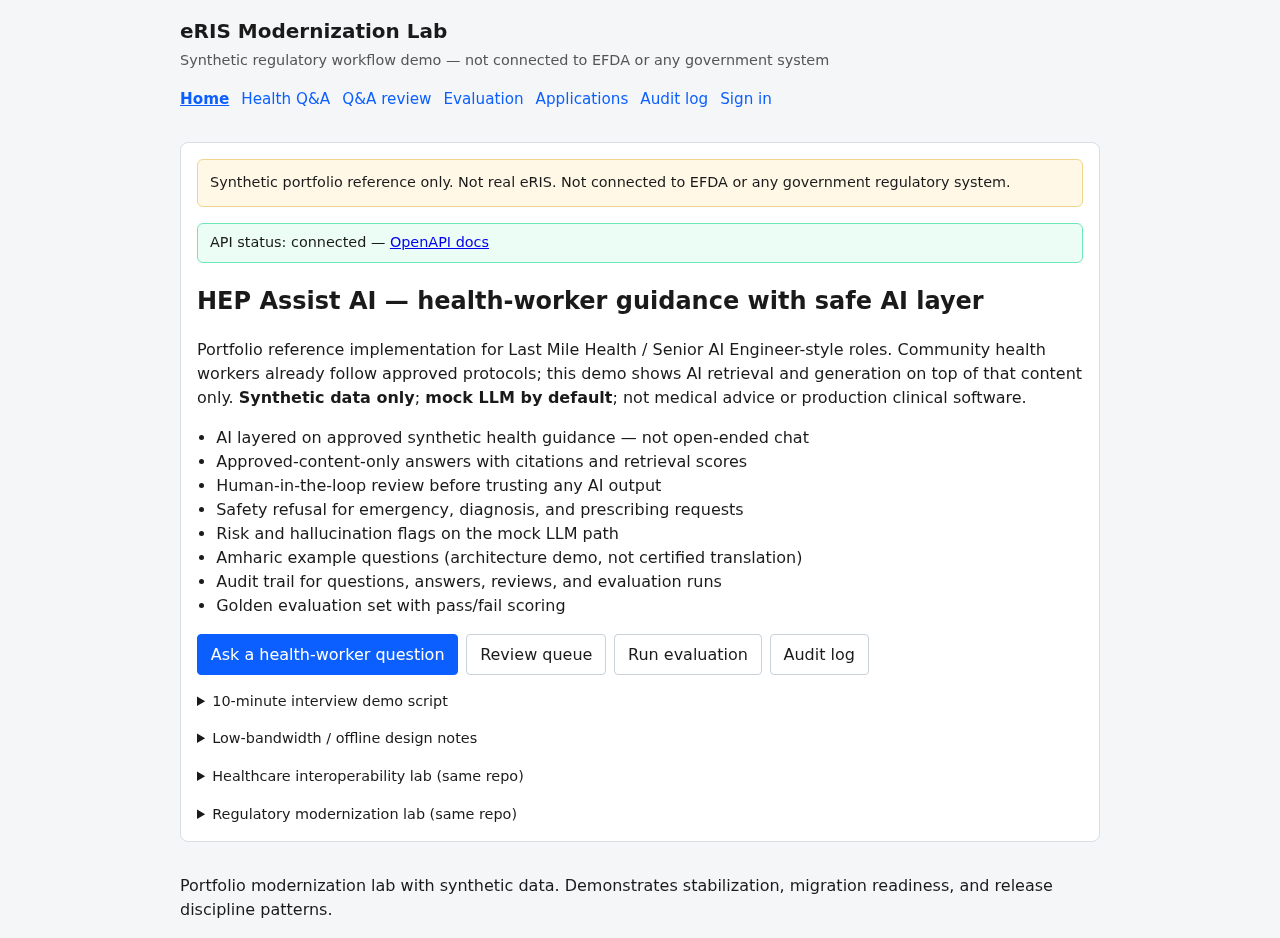
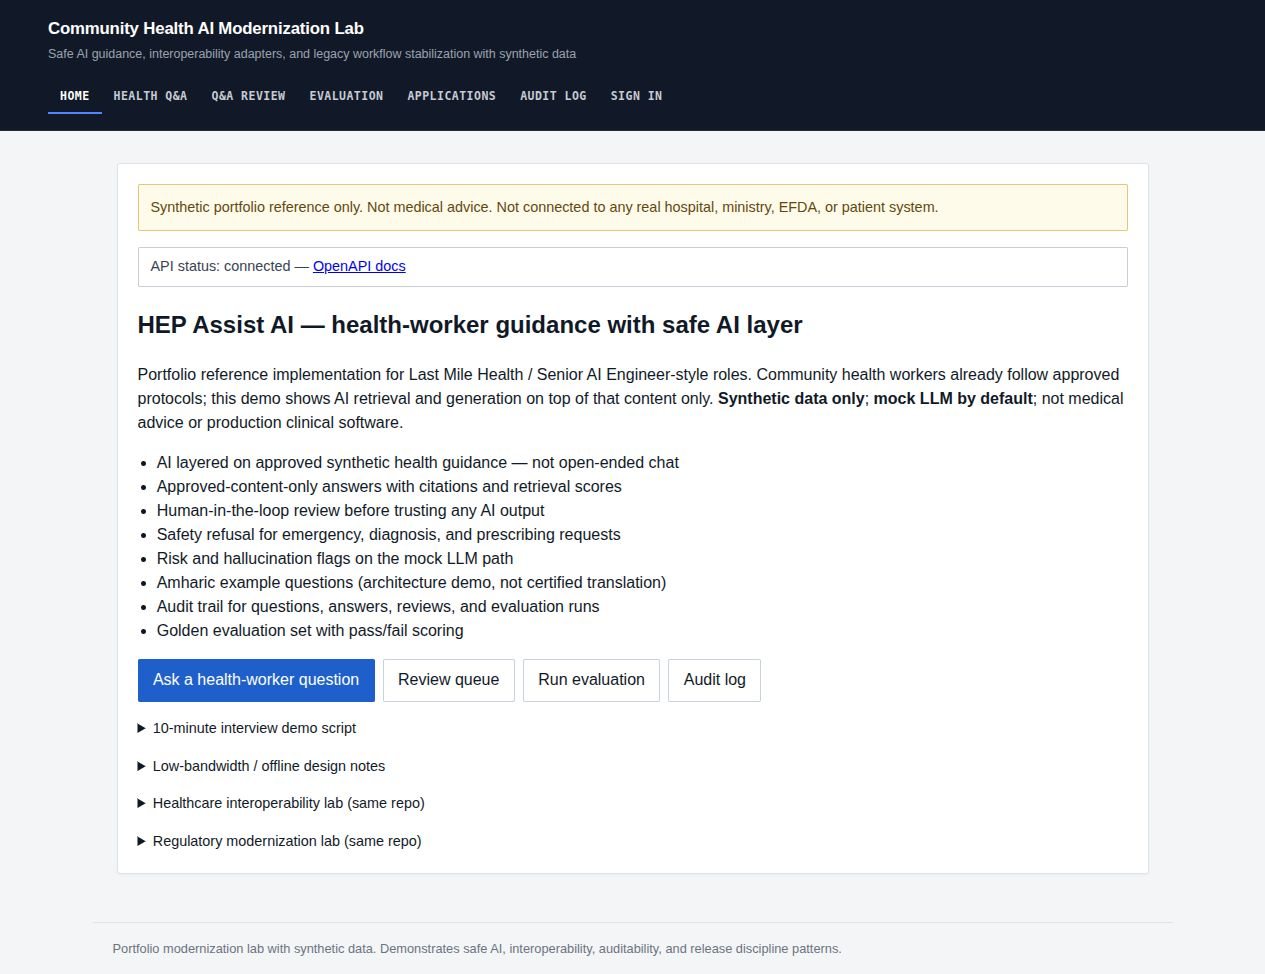
Refine clinical operations interface

Changed region(s): [[0.0925, 0.3092, 0.8941, 0.8966], [0.0, 0.0, 1.0, 0.2783], [0.0925, 0.9275, 0.8324, 0.9893]]

diff --git a/frontend/src/styles.css b/frontend/src/styles.css
@@ -112,3 +112,102 @@ textarea, select { width: 100%; margin-top: 0.25rem; padding: 0.5rem; border: 1p
   .header { flex-direction: column; }
   .table { display: block; overflow-x: auto; }
 }
+
+/* Clinical operations visual system */
+:root {
+  color: #111827;
+  background: #f4f5f7;
+  font-family: "IBM Plex Sans", "Helvetica Neue", sans-serif;
+}
+
+.header {
+  max-width: none;
+  padding: 1rem clamp(1.25rem, 4vw, 3rem);
+  background: #111827;
+  color: #fff;
+  align-items: center;
+  border-bottom: 1px solid #252b36;
+}
+
+.header h1 { font-size: 1.05rem; letter-spacing: -0.01em; }
+.header .tagline { color: #9ca3af; font-size: 0.78rem; }
+.header nav { gap: 0; }
+.header nav a {
+  padding: 0.55rem 0.75rem;
+  color: #c7cbd3;
+  border-bottom: 2px solid transparent;
+  font: 600 0.72rem "IBM Plex Mono", monospace;
+  text-transform: uppercase;
+  letter-spacing: 0.04em;
+}
+.header nav a.active { color: #fff; border-bottom-color: #4f86ff; text-decoration: none; }
+
+.main { max-width: 1080px; padding: 2rem 1.5rem 3rem; }
+.footer { max-width: 1080px; color: #6b7280; font-size: 0.8rem; border-top: 1px solid #dfe2e7; }
+
+.card {
+  border-color: #dfe2e7;
+  border-radius: 3px;
+  padding: 1.25rem;
+  box-shadow: 0 1px 2px rgba(17, 24, 39, 0.04);
+}
+
+.banner,
+.api-status,
+.pill,
+.status-pill { border-radius: 2px; }
+
+.banner.warning,
+.banner.caution { background: #fffbeb; border-color: #e5c875; color: #61470d; }
+.banner.danger,
+.api-status.down { background: #fff; border-color: #e4b5b1; color: #a12b24; }
+.api-status.ok { background: #fff; border-color: #c9ced6; color: #374151; }
+.api-status.checking { background: #f7f8fa; border-color: #dfe2e7; }
+
+input,
+textarea,
+select {
+  border-color: #c9ced6;
+  border-radius: 2px;
+  padding: 0.65rem 0.7rem;
+  background: #fff;
+}
+input:focus,
+textarea:focus,
+select:focus { outline: 2px solid #b8cdfd; border-color: #285ec7; }
+
+.button,
+button.button { border-radius: 2px; padding: 0.55rem 0.9rem; }
+.button.primary,
+button.button.primary { background: #1f5fcc; border-color: #1f5fcc; }
+.link-button { color: #1f5fcc; }
+
+.answer-text { background: #f7f8fa; border: 1px solid #e3e6eb; border-radius: 2px; }
+.pill,
+.status-pill,
+.status-submitted,
+.status-technical_review,
+.status-clarification_requested,
+.status-resubmitted,
+.status-approved,
+.status-rejected {
+  background: #f1f3f5;
+  color: #4b5260;
+  border: 1px solid #dfe2e7;
+}
+.status-approved { background: #eef3ff; color: #174ea6; border-color: #cbd9ff; }
+.status-rejected { color: #a12b24; border-color: #e4b5b1; }
+
+.table,
+.audit-table { border: 1px solid #dfe2e7; background: #fff; }
+.table th,
+.audit-table th { background: #f7f8fa; color: #626875; font: 700 0.68rem "IBM Plex Mono", monospace; text-transform: uppercase; letter-spacing: 0.04em; }
+.table th,
+.table td,
+.audit-table th,
+.audit-table td { border-color: #e5e7eb; padding: 0.6rem 0.7rem; }
+
+@media (max-width: 640px) {
+  .header { align-items: flex-start; }
+  .header nav { width: 100%; overflow-x: auto; flex-wrap: nowrap; }
+}